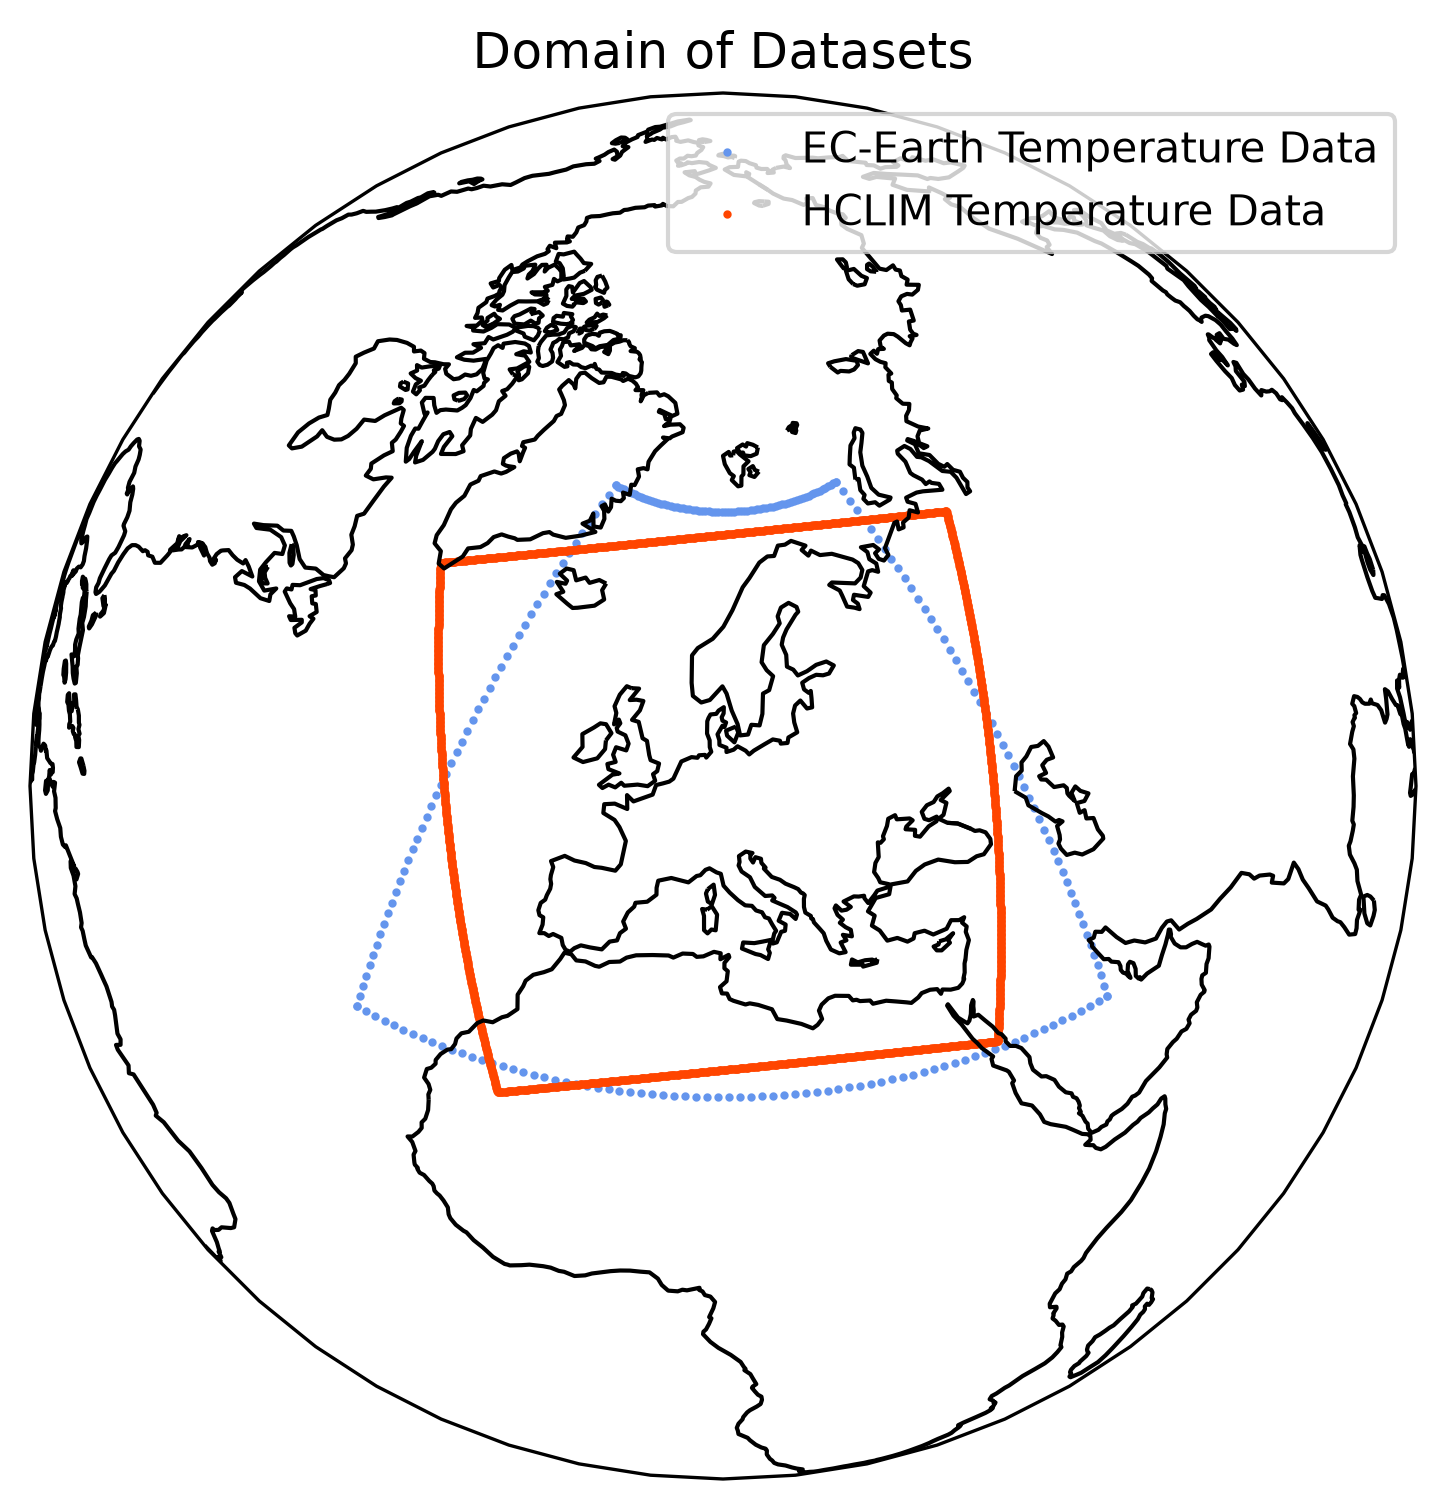
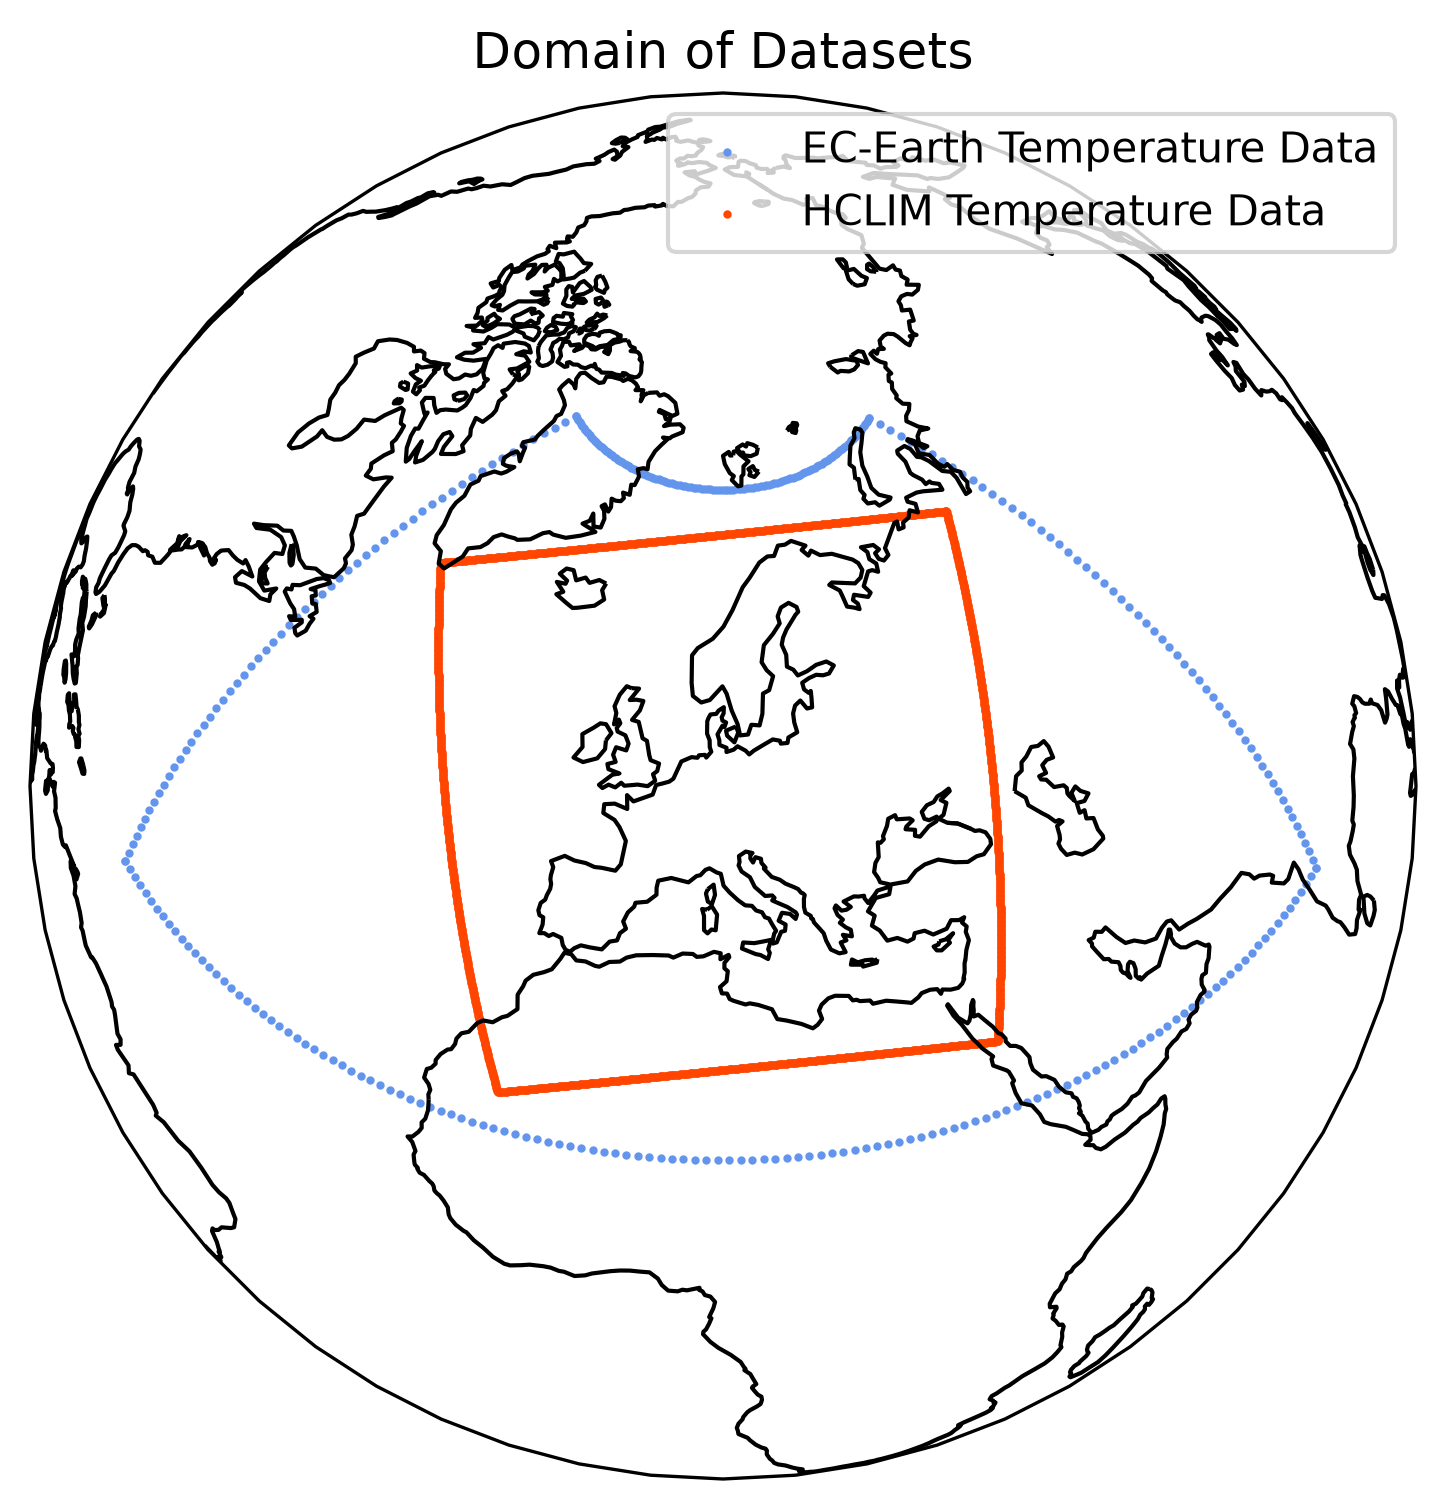
plotting new domain

diff --git a/figures/plotting_tool.py b/figures/plotting_tool.py
@@ -5,7 +5,7 @@ import matplotlib.pyplot as plt
 import xarray as xr
 import cartopy.crs as ccrs
 
-dpath = "/scratch/project_465002687/ec_earth/predictors/EC-Earth3-Veg/historical/r1i1p1f1"
+dpath = "/scratch/project_465002687/ec_earth/predictors/EC-Earth3-Veg-v2/historical/r1i1p1f1"
 HISTORICAL = Path(dpath)
 
 FIGSIZE = (8, 6)
